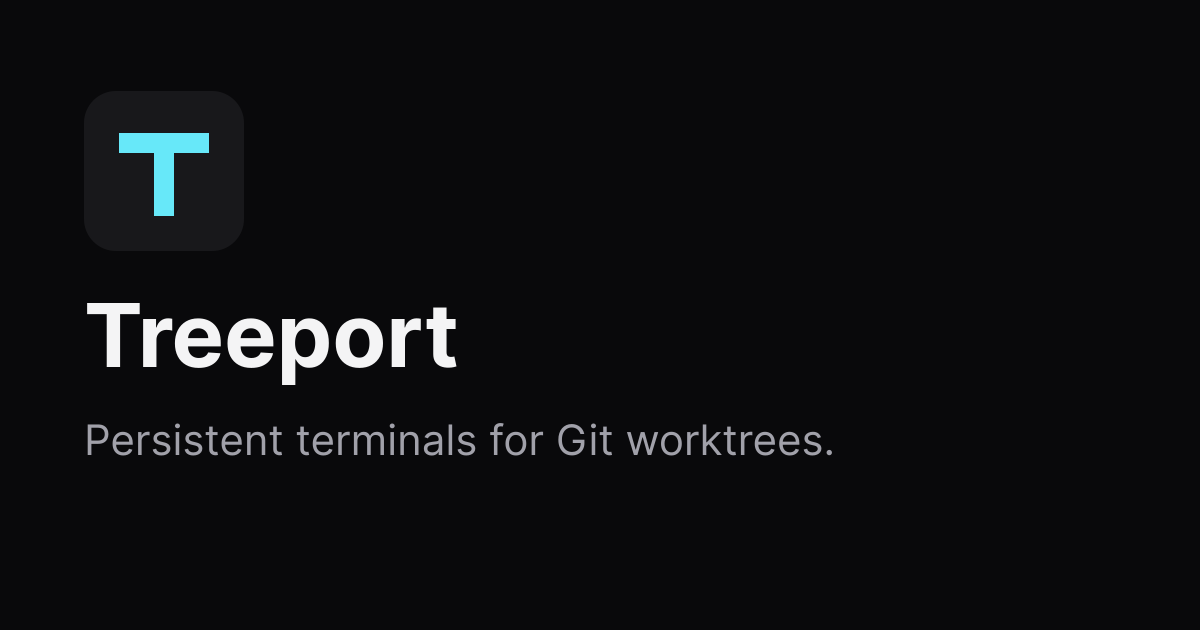
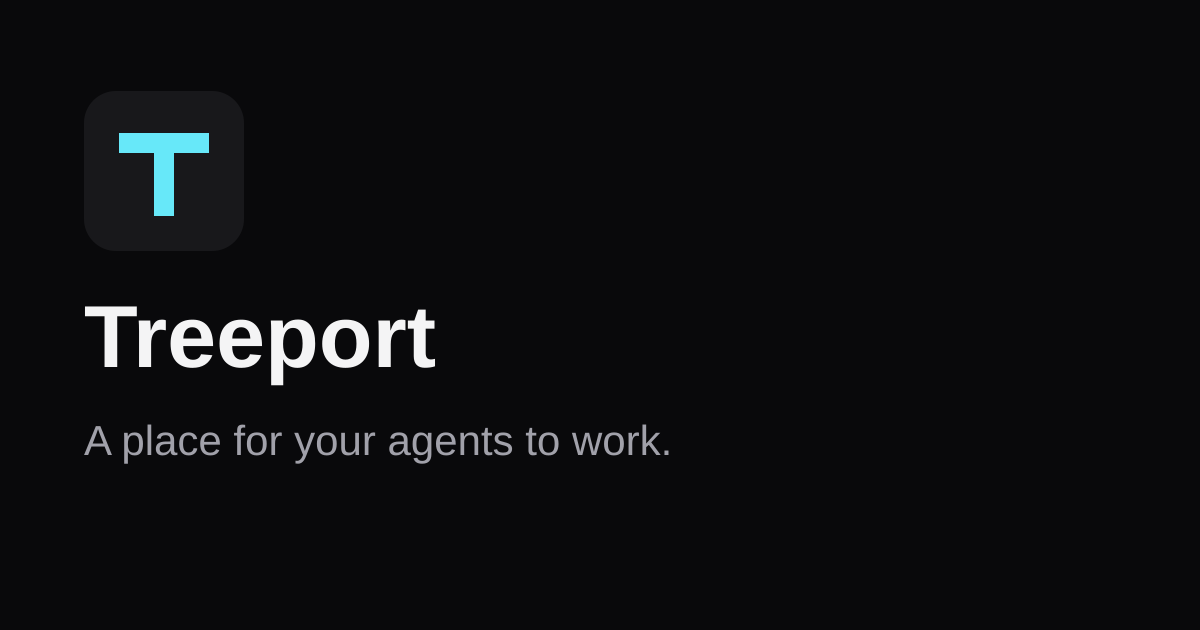
improve: clarify the agent workspace and installation docs

Changed region(s): [[0.0617, 0.6635, 0.7092, 0.754], [0.0617, 0.4825, 0.4008, 0.6333]]

diff --git a/apps/docs/src/content/docs/getting-started/installation.md b/apps/docs/src/content/docs/getting-started/installation.md
@@ -3,28 +3,79 @@ title: Install Treeport
 description: Install Treeport and open your first project.
 ---
 
-Requires macOS or Linux, Node.js 24+, npm, and Git.
+Treeport has a server and a client. The server runs on the machine that holds your projects and keeps your terminals and agents running. You connect to it with the macOS app or a web browser, on the same machine or another device.
 
-## Backend
+Closing the client does not stop the server or its terminal processes.
+
+## Server
+
+Install the server on the machine where you want your projects and agents to run. It requires macOS or Linux, Node.js 24+, npm, and Git.
+
+### Fork it
+
+We recommend forking [Treeport](https://github.com/noice-tech/treeport) and changing it however you want. Contributions are welcome.
+
+You'll also need pnpm. Fork the repository on GitHub, then:
+
+1. Clone your fork:
+
+   ```sh
+   git clone https://github.com/YOUR-USERNAME/treeport.git
+   ```
+
+2. Enter the directory, install dependencies, and start Treeport:
+
+   ```sh
+   cd treeport
+   pnpm install
+   pnpm dev
+   ```
+
+   For access from other devices, use `pnpm dev:tailscale` instead of `pnpm dev`. Tailscale must be connected with MagicDNS enabled.
+
+3. Start working. Modify Treeport to suit your workflow.
+
+`pnpm dev` starts both the server and clients for your checkout: the backend, web interface, and Electron app. You do not need to install the server or desktop client separately.
+
+### Install from npm
 
 ```sh
 npm install --global @treeport/treeport
 treeport /path/to/project
 ```
 
-Treeport starts the backend and opens your project in the desktop client or browser.
+This starts the server and opens your project in the desktop client or browser.
 
-## macOS app
+To start the server automatically, enable [service supervision](/features/service-supervision/).
+
+## Client
+
+Choose the macOS app or a web browser. Both connect to the Treeport server; the macOS app does not include the server.
+
+### Web browser
+
+The server includes the web interface, so you do not need to install a separate browser client. Run `treeport /path/to/project` on the server machine to open your project.
+
+To connect from another computer or phone, set up [remote access](/features/remote-access/) on the server and open the printed HTTPS URL in your browser.
+
+### macOS app
 
 Download the DMG from the [latest release](https://github.com/noice-tech/treeport/releases/latest).
 Drag **Treeport** to Applications, then open it.
 
-Requires macOS 12+ on Apple Silicon or Intel. Install the backend separately with the command above.
+Requires macOS 12+ on Apple Silicon or Intel. Connect to a server on the same Mac, or use [remote access](/features/remote-access/) to connect to another computer.
 
-For another computer, use [Remote access](/features/remote-access/).
+## Start working
+
+1. Open or create a tree for your task.
+2. Use **New app** to open a terminal and start your [coding agent](/building-apps/coding-agents/).
+3. Open another terminal for a development server, then add a [Browser](/features/browser-app/) app to check the result.
+4. Add [custom web apps](/features/web-apps/) from your project or installed packages.
+
+See [Projects, trees, and apps](/concepts/projects-worktrees-terminals/) for how the workspace fits together.
 
 ## Updates
 
-Run `treeport update` for the backend. The macOS app offers its own updates.
+For an npm installation, run `treeport update` on the server machine. The macOS client offers its own updates.
 
 If an update fails, reinstall the latest release.

diff --git a/apps/docs/src/content/docs/features/web-apps.md b/apps/docs/src/content/docs/features/web-apps.md
@@ -1,24 +1,48 @@
 ---
-title: Web apps (experimental)
-description: Add project tools beside your terminals.
+title: Web apps
+description: Add editors, diff viewers, dashboards, and custom tools to your workspace.
 ---
 
-Web apps are custom tools that belong to a tree. Use them for project interfaces such as a diff viewer or dashboard.
+Web apps are tools supplied by your project or an installed package. Open an editor, diff viewer, or dashboard in a tree alongside your agent and browser.
+
+Use a [browser app](/features/browser-app/) to open a website.
 
 ## Open an app
 
-Select a discovered web app from **New app** or the side panel's `+` menu.
+Select an available web app from **New app** or the side panel's `+` menu.
 
 Apps remain active when you switch terminals or hide the side panel.
 
 To open a package-provided app from the CLI, run `treeport app open <definition> --worktree .`.
 
+## App services
+
+Some web apps need a backend. An editor, for example, might use code-server. A package can declare an app service that Treeport starts when the app requests it. The service uses your existing Treeport connection, so you do not need a separate public port or remote-access URL.
+
+### Open an app that needs a service
+
+1. Install the trusted [package](/features/packages/) that supplies the app.
+2. Install any external executable the app requires on the Treeport host. It must be available on Treeport's `PATH`.
+3. Open the app from **New app**.
+
+The app can start or attach to its service, show its status and output, and offer a retry if startup fails.
+
+### Shared across trees
+
+Apps from the same package share a service across the Treeport instance. Treeport does not start a separate process for each tree, so stopping the service affects every app using it.
+
+Switching trees or hiding an app does not stop its service. Services stop when the Treeport backend shuts down and do not survive a backend restart, though persistent terminal sessions do.
+
+Services run native programs with the host user's permissions. Install only packages you trust. A separate tree is not a security boundary.
+
+App services are different from [service supervision](/features/service-supervision/), which starts and restarts the Treeport backend itself.
+
 ## Add apps
 
-A project can supply apps in `.treeport/web-apps/`. [Packages](/features/packages/) can also supply them.
+Put project apps in `.treeport/web-apps/`, or install them through [packages](/features/packages/).
 
 Treeport supports HTML, TypeScript, React, and CSS app sources. It handles development serving and builds.
 
-The app SDK provides tree context, diffs, saved app data, and file access where permission is granted.
+The app SDK gives apps access to tree context, diffs, and saved app data. Apps can also access files with your permission.
 
 Use only trusted apps. Review package permissions before granting access to Treeport or project files.

diff --git a/apps/docs/src/content/docs/concepts/projects-worktrees-terminals.md b/apps/docs/src/content/docs/concepts/projects-worktrees-terminals.md
@@ -1,20 +1,36 @@
 ---
-title: Projects, trees, and terminals
-description: Organize your work in projects, trees, and terminals.
+title: Projects, trees, and apps
+description: Organize agents, terminals, browser tabs, and custom apps by project and task.
 ---
+
+In Treeport, each tree holds an agent's session and the tools you use to guide it and check its work.
 
 ```text
 Project
 └── Tree
-    └── Terminal
+    ├── Terminal — agent, shell, or development server
+    ├── Browser — website or running app
+    └── Web app — editor, diff viewer, or custom tool
 ```
 
-- **Project:** A Git repository or ordinary folder opened in Treeport.
-- **Tree:** A workspace for one Git worktree. An ordinary folder project has one tree.
-- **Terminal:** A shell, Pi session, development server, or another terminal program in a tree.
+A project is a Git repository or ordinary folder opened in Treeport.
 
-Treeport finds existing Git worktrees. You can also create trees in Treeport to work on separate tasks.
+A tree is a workspace for one Git worktree. An ordinary folder project has one tree.
 
-Each tree can have multiple named terminals. For example, keep Pi, a development server, and tests in separate terminals.
+An app is a terminal, browser tab, or custom web app opened in a tree.
+
+Treeport finds existing Git worktrees. You can also create trees in Treeport to work on separate tasks, each with its own files, branch, and apps.
+
+## Add tools to a tree
+
+For a feature, keep a coding agent and a development server in separate [terminals](/features/persistent-terminals/). Open the running app in a [browser](/features/browser-app/), then use a [custom web app](/features/web-apps/) to review changes or work with project data.
+
+Use **New app** to add tools to the current tree. [Terminal presets](/features/terminal-presets/) and [packages](/features/packages/) make your usual tools available across tasks.
+
+Some web apps use [app services](/features/web-apps/#app-services) for their backend. Several trees can share the same service process.
+
+## Return to your work
 
 Closing a project does not stop its terminals or delete files. Open it again to reconnect.
+
+Terminal processes run on the host. They keep running when you close the client window, and you can reconnect from another device with [remote access](/features/remote-access/).

diff --git a/apps/docs/src/content/docs/building-apps/coding-agents.md b/apps/docs/src/content/docs/building-apps/coding-agents.md
@@ -1,19 +1,35 @@
 ---
 title: Coding agents
-description: Coding agent support in Treeport.
+description: Run coding agents alongside browsers, development servers, and project tools.
 ---
 
-Only [Pi](https://pi.dev) is supported now.
+Run a coding agent in a [persistent terminal](/features/persistent-terminals/) and keep its tools in the same tree. The agent keeps running when you disconnect, as long as the host stays running.
 
-To be documented.
+Treeport currently supports integration with Pi. Other terminal programs can run in Treeport without that integration.
+
+## Work with Pi
+
+Install the `@treeport/pi` package in Pi, then start Pi in a Treeport terminal. See the [package setup instructions](https://github.com/noice-tech/treeport/tree/main/packages/pi#install).
+
+Pi can use Treeport tools to manage terminals, browser tabs, projects, and trees. For example, you can ask:
+
+- "Start the development server."
+- "Open the app and check the settings page."
+- "Do this side quest in a separate tree."
+
+Long-running processes use their own terminals. Browser tabs stay visible so you can inspect the page and interact with it yourself. Pi asks for your approval before installing a browser runtime.
+
+## Work in separate trees
+
+Use a separate tree for each independent change. Each tree keeps its agent, server, [browser](/features/browser-app/), and [custom apps](/features/web-apps/) together when you switch tasks.
+
+Tree context can hold a task description or other project-defined fields. Run `treeport context` inside a managed terminal to see the current project, tree, terminal, and tree context.
 
 ## Attention and progress
 
 Supported terminal applications can show a descriptive title, progress, and attention notifications in Treeport.
 
-- **Titles** identify the current task.
-- **Progress** shows active work or a completion percentage.
-- **Attention** marks a terminal that needs you, such as a completed task or an input prompt.
+Titles identify the current task. Progress shows active work or a completion percentage. Attention notifications mark terminals that need you when a task finishes or a program asks for input.
 
 Applications without these signals still show their normal process status.
 

diff --git a/apps/docs/src/content/docs/features/persistent-terminals.md b/apps/docs/src/content/docs/features/persistent-terminals.md
@@ -1,5 +1,5 @@
 ---
-title: Persistent terminals
+title: Terminals
 description: Keep terminal programs running when you disconnect.
 ---
 

diff --git a/apps/docs/src/content/docs/features/browser-app.md b/apps/docs/src/content/docs/features/browser-app.md
@@ -1,5 +1,5 @@
 ---
-title: Browser (experimental)
+title: Browser
 description: Open web pages beside your terminals.
 ---
 
